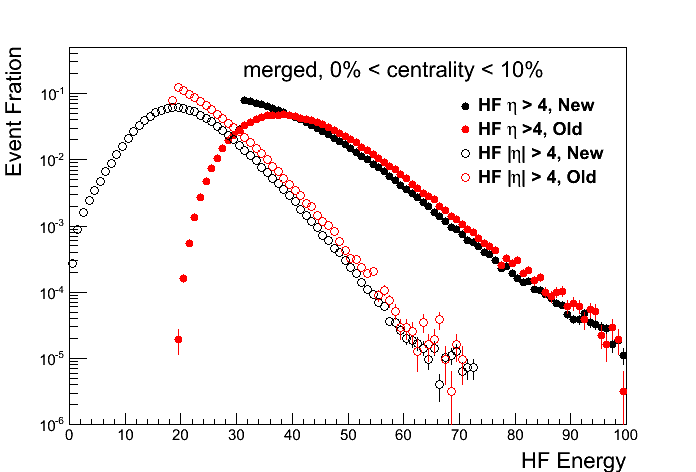
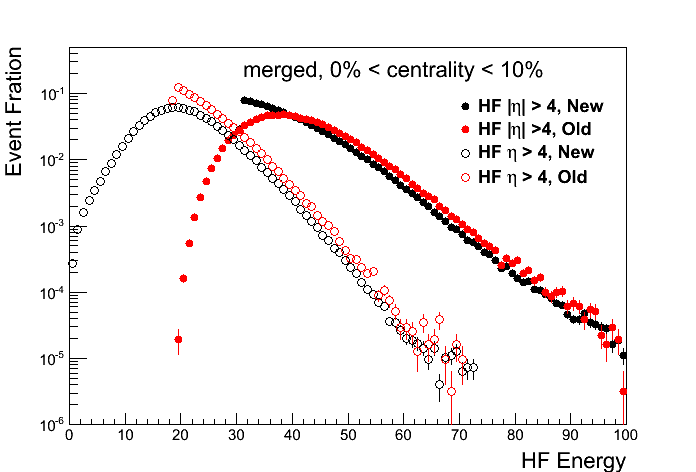
jetRpPb centrality update

Changed region(s): [[0.694, 0.2076, 0.875, 0.4153]]

diff --git a/jetRpA/RpA/NewMC/Event/OldvsNewCentpthat.C b/jetRpA/RpA/NewMC/Event/OldvsNewCentpthat.C
@@ -2,8 +2,8 @@
 void OldvsNewCentpthat(){
 	gStyle->SetOptStat(kFALSE);
 	int pthat = 0;
-	int hibinmin = 60;
-	int hibinmax = 90;
+	int hibinmin = 20;
+	int hibinmax = 30;
 	h1 = DrawTH1(0,"hiHFEta4",pthat,hibinmin,hibinmax,1,20);
 	h1_old = DrawTH1(1,"hiHFEta4",pthat,hibinmin,hibinmax,2,20);
 	h2 = DrawTH1(0,"hiHFplusEta4",pthat,hibinmin,hibinmax,1,24);
@@ -24,10 +24,10 @@ void OldvsNewCentpthat(){
 	h2->Draw("same");
 	h2_old->Draw("same");
 	TLegend *leg = new TLegend(0.65,0.6,0.8,0.8);
-	leg->AddEntry(h1,Form("HF #eta > 4, New"),"p");
-	leg->AddEntry(h1_old,Form("HF #eta >4, Old"),"p");
-	leg->AddEntry(h2,Form("HF |#eta| > 4, New"),"p");
-	leg->AddEntry(h2_old,Form("HF |#eta| > 4, Old"),"p");
+	leg->AddEntry(h1,Form("HF |#eta| > 4, New"),"p");
+	leg->AddEntry(h1_old,Form("HF |#eta| > 4, Old"),"p");
+	leg->AddEntry(h2,Form("HF #eta > 4, New"),"p");
+	leg->AddEntry(h2_old,Form("HF #eta > 4, Old"),"p");
 	leg->SetBorderSize(0);
 	leg->SetFillColor(0);
 	leg->SetTextSize(0.04);
